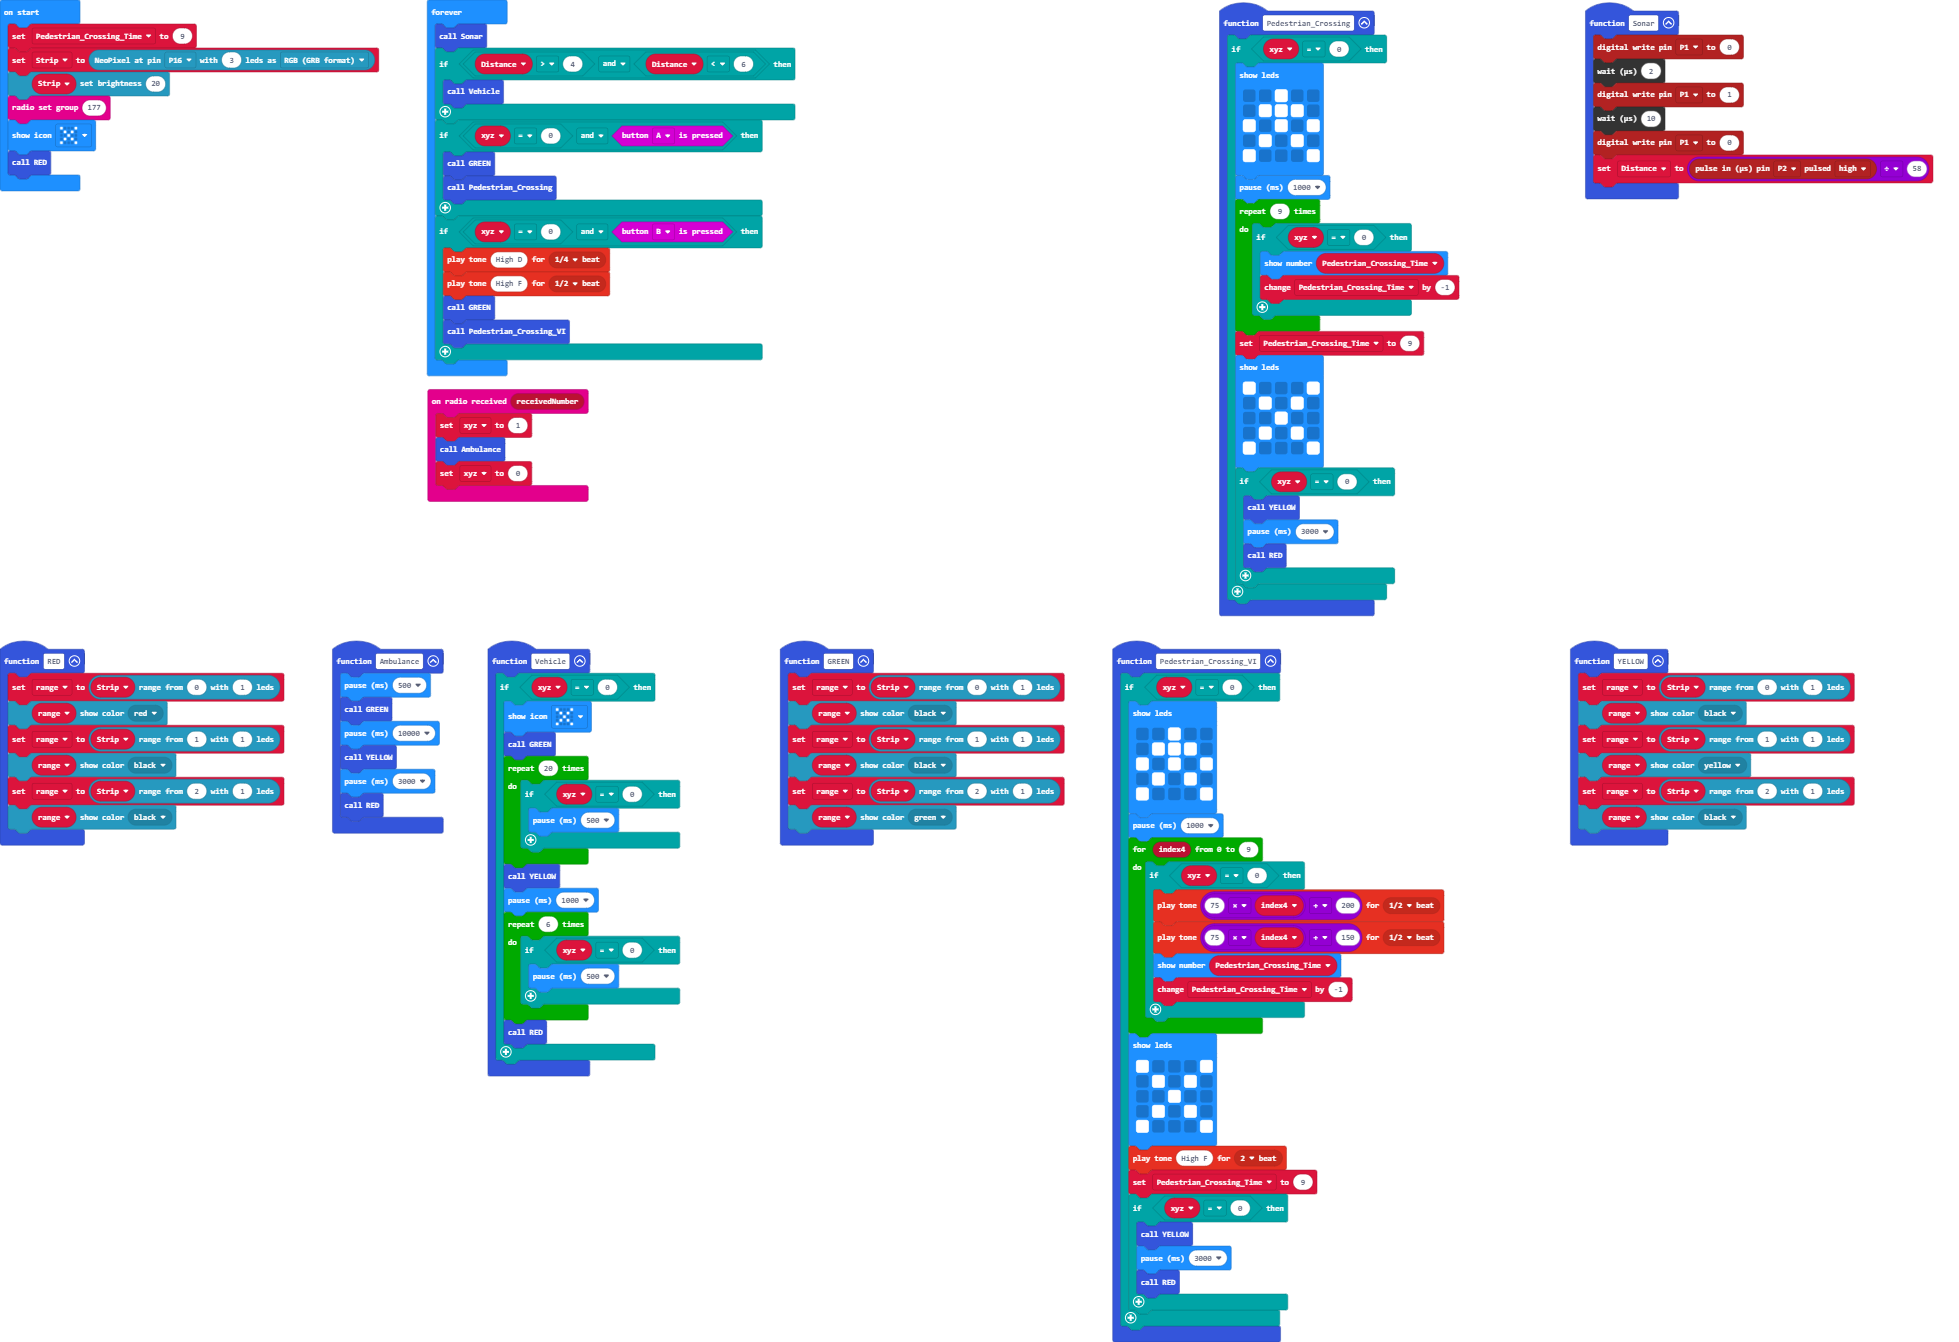
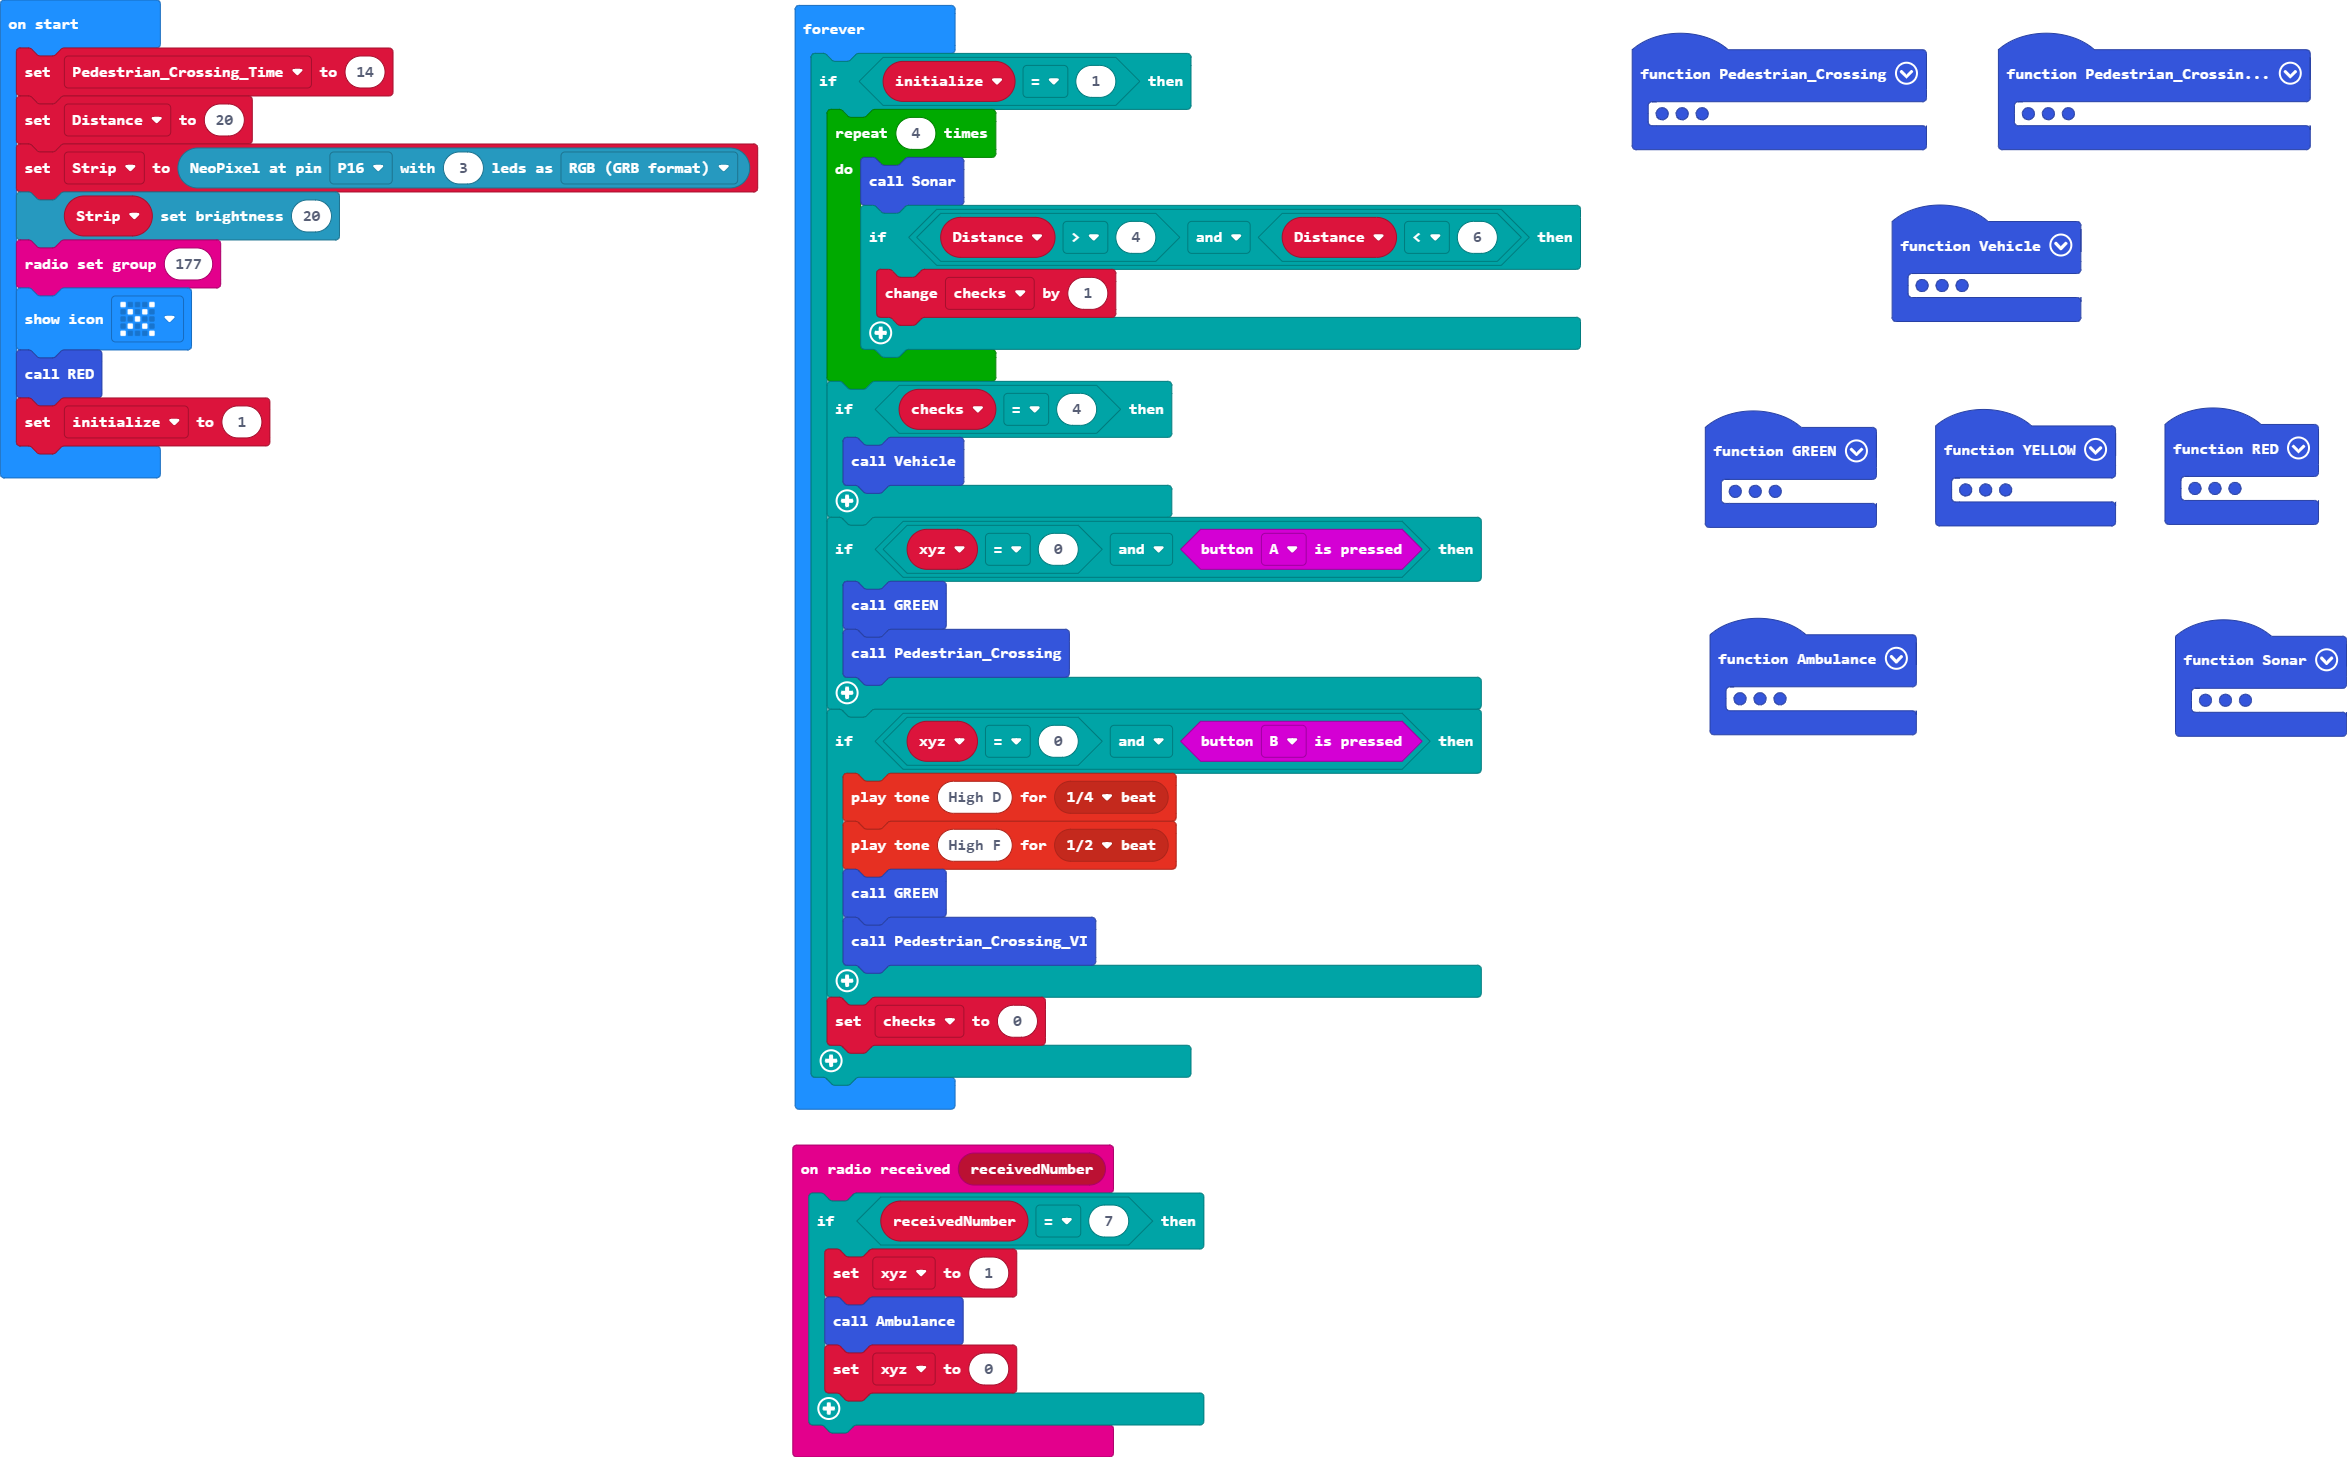
Update main.blocks, main.ts

diff --git a/main.ts b/main.ts
@@ -8,13 +8,14 @@ function Pedestrian_Crossing () {
             # . . . #
             `)
         basic.pause(1000)
-        for (let index = 0; index < 9; index++) {
+        for (let index = 0; index < 14; index++) {
             if (xyz == 0) {
                 basic.showNumber(Pedestrian_Crossing_Time)
+                basic.pause(500)
                 Pedestrian_Crossing_Time += -1
             }
         }
-        Pedestrian_Crossing_Time = 9
+        Pedestrian_Crossing_Time = 14
         basic.showLeds(`
             # . . . #
             . # . # .
@@ -30,9 +31,11 @@ function Pedestrian_Crossing () {
     }
 }
 radio.onReceivedNumber(function (receivedNumber) {
-    xyz = 1
-    Ambulance()
-    xyz = 0
+    if (receivedNumber == 7) {
+        xyz = 1
+        Ambulance()
+        xyz = 0
+    }
 })
 function Sonar () {
     pins.digitalWritePin(DigitalPin.P1, 0)
@@ -62,7 +65,7 @@ function Vehicle () {
     if (xyz == 0) {
         basic.showIcon(IconNames.No)
         GREEN()
-        for (let index = 0; index < 20; index++) {
+        for (let index = 0; index < 40; index++) {
             if (xyz == 0) {
                 basic.pause(500)
             }
@@ -95,10 +98,10 @@ function Pedestrian_Crossing_VI () {
             # . . . #
             `)
         basic.pause(1000)
-        for (let index4 = 0; index4 <= 9; index4++) {
+        for (let index4 = 0; index4 <= 14; index4++) {
             if (xyz == 0) {
-                music.playTone(75 * index4 + 200, music.beat(BeatFraction.Half))
-                music.playTone(75 * index4 + 150, music.beat(BeatFraction.Half))
+                music.playTone(80 * index4 + 200, music.beat(BeatFraction.Half))
+                music.playTone(80 * index4 + 150, music.beat(BeatFraction.Half))
                 basic.showNumber(Pedestrian_Crossing_Time)
                 Pedestrian_Crossing_Time += -1
             }
@@ -111,7 +114,7 @@ function Pedestrian_Crossing_VI () {
             # . . . #
             `)
         music.playTone(698, music.beat(BeatFraction.Double))
-        Pedestrian_Crossing_Time = 9
+        Pedestrian_Crossing_Time = 14
         if (xyz == 0) {
             YELLOW()
             basic.pause(3000)
@@ -127,30 +130,41 @@ function YELLOW () {
     range = Strip.range(2, 1)
     range.showColor(neopixel.colors(NeoPixelColors.Black))
 }
+let checks = 0
 let range: neopixel.Strip = null
-let Distance = 0
 let xyz = 0
 let Strip: neopixel.Strip = null
+let Distance = 0
 let Pedestrian_Crossing_Time = 0
-Pedestrian_Crossing_Time = 9
+Pedestrian_Crossing_Time = 14
+Distance = 20
 Strip = neopixel.create(DigitalPin.P16, 3, NeoPixelMode.RGB)
 Strip.setBrightness(20)
 radio.setGroup(177)
 basic.showIcon(IconNames.No)
 RED()
+let initialize = 1
 basic.forever(function () {
-    Sonar()
-    if (Distance > 4 && Distance < 6) {
-        Vehicle()
-    }
-    if (xyz == 0 && input.buttonIsPressed(Button.A)) {
-        GREEN()
-        Pedestrian_Crossing()
-    }
-    if (xyz == 0 && input.buttonIsPressed(Button.B)) {
-        music.playTone(587, music.beat(BeatFraction.Quarter))
-        music.playTone(698, music.beat(BeatFraction.Half))
-        GREEN()
-        Pedestrian_Crossing_VI()
+    if (initialize == 1) {
+        for (let index = 0; index < 4; index++) {
+            Sonar()
+            if (Distance > 4 && Distance < 6) {
+                checks += 1
+            }
+        }
+        if (checks == 4) {
+            Vehicle()
+        }
+        if (xyz == 0 && input.buttonIsPressed(Button.A)) {
+            GREEN()
+            Pedestrian_Crossing()
+        }
+        if (xyz == 0 && input.buttonIsPressed(Button.B)) {
+            music.playTone(587, music.beat(BeatFraction.Quarter))
+            music.playTone(698, music.beat(BeatFraction.Half))
+            GREEN()
+            Pedestrian_Crossing_VI()
+        }
+        checks = 0
     }
 })
